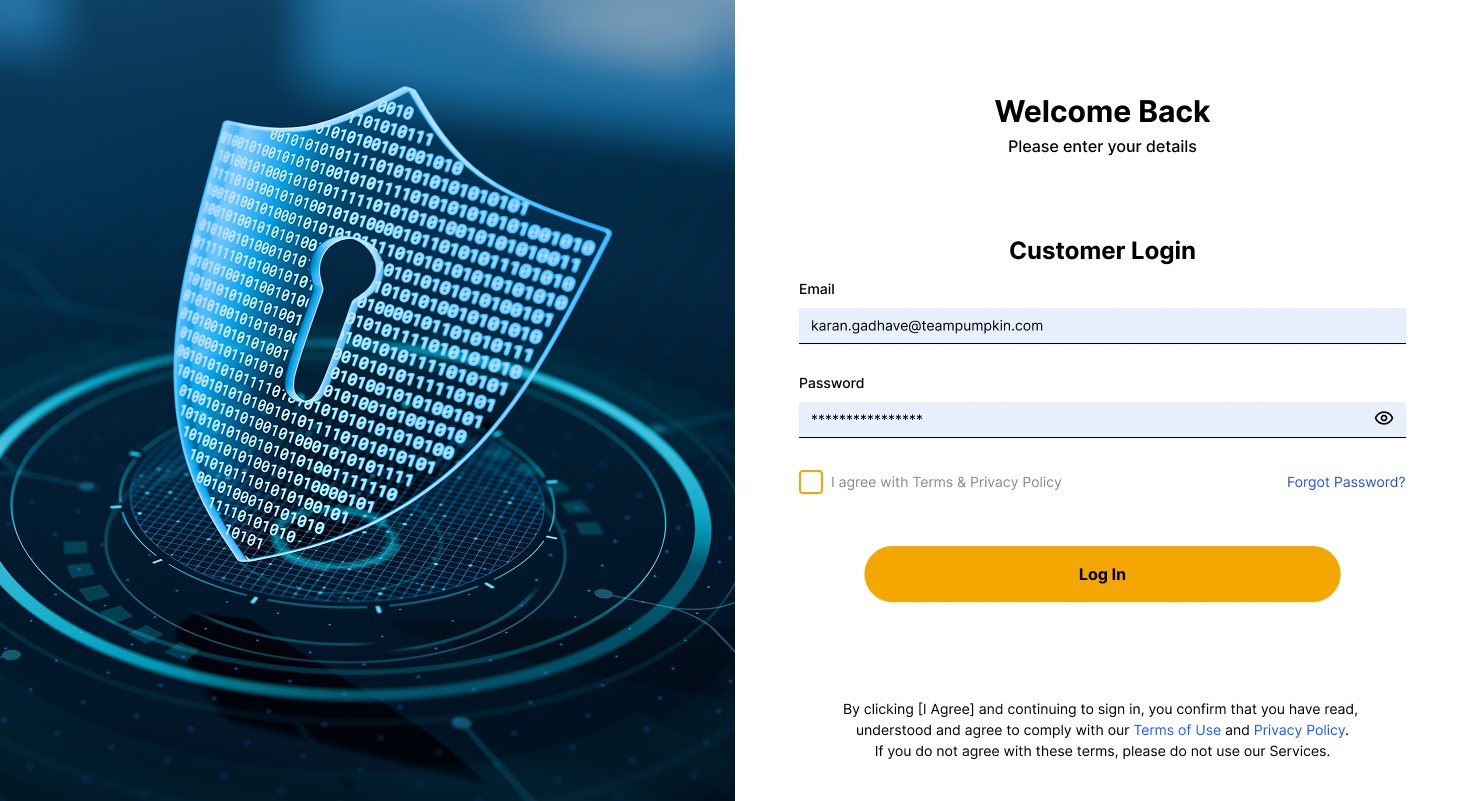
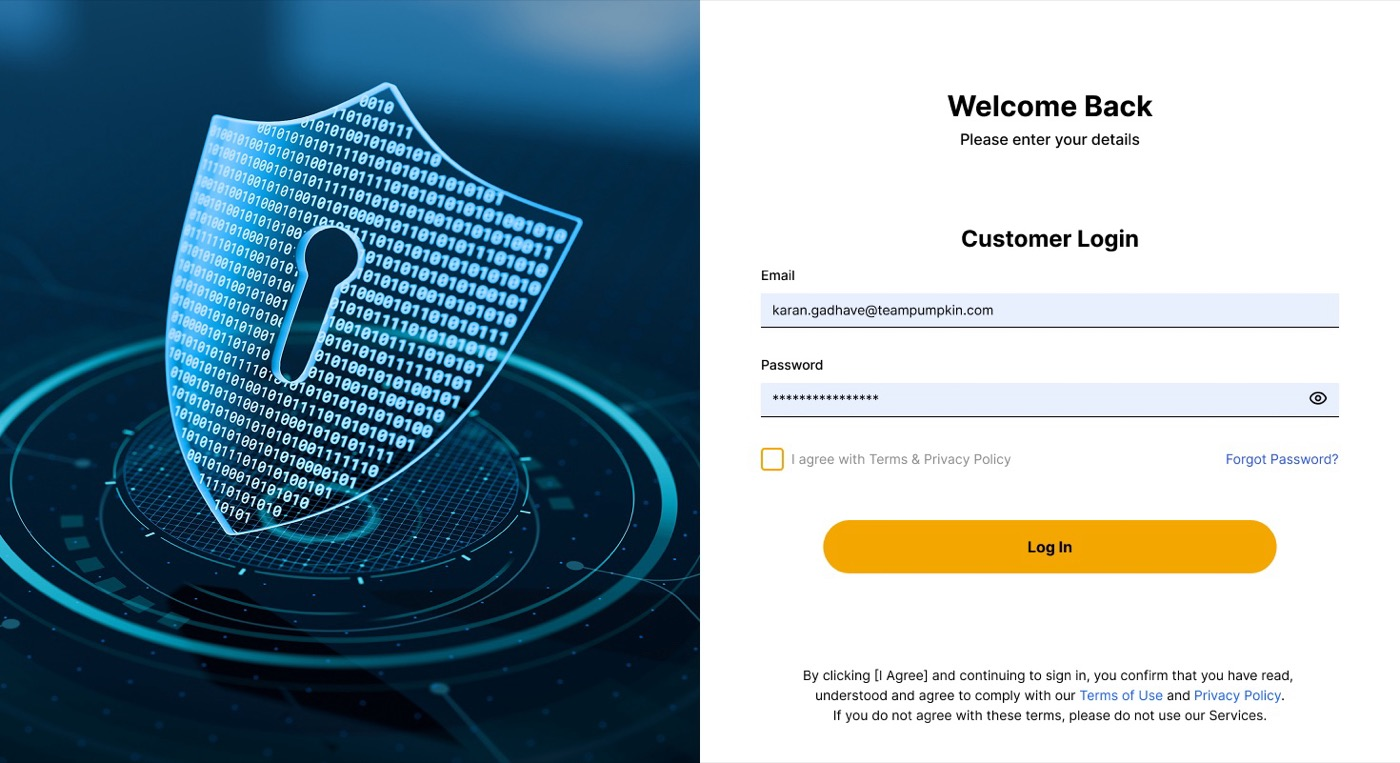
Case studies: lazy load the imagery, shrink the heavy screenshots
Every case study image loaded on arrival. Only the BeforeAfter frames
were lazy, so a page like Liffo fetched all 34 handset screens, the
collage tiles and the walkthrough stills before a reader had scrolled
past the hero. All eight image sites now load lazily and decode async;
the 2 Hour Learning page drops from nine images on arrival to one.

The heavy screenshots were stored far larger than they are ever shown.
The four full-page captures ran 1600px wide at up to 10,000 tall, 6.1MB
between them, and render at roughly 990px on desktop and 333 on a phone.
Capped at 1200 for the tall captures and 1400 elsewhere, re-encoded at
quality 76.

Image payload is down from 14MB to 11MB, and the four worst offenders
from 6.1MB to 3.2MB. The PNGs and the hero background are untouched:
sips re-encodes both worse than the originals, so those were restored.

The 11MB walkthrough video was already fetched only on approach.

Changed region(s): [[0.1536, 0.6029, 0.1843, 0.633]]

diff --git a/client/src/components/case-study/template.tsx b/client/src/components/case-study/template.tsx
@@ -96,7 +96,7 @@ export const SectionHead = ({
 /* ── device frames ─────────────────────────────────────────── */
 export const Phone = ({ src, alt = "", small = false, style }: { src: string; alt?: string; small?: boolean; style?: React.CSSProperties }) => (
   <div className={`pf-phone${small ? " sm" : ""}`} style={style}>
-    <img src={src} alt={alt} />
+    <img src={src} alt={alt} loading="lazy" decoding="async" />
     <i className="island" />
     <b className="btn action" /><b className="btn volup" /><b className="btn voldn" /><b className="btn power" />
   </div>
@@ -105,7 +105,7 @@ export const Phone = ({ src, alt = "", small = false, style }: { src: string; al
 export const Browser = ({ src, alt = "", url, imgId }: { src: string; alt?: string; url: string; imgId?: string }) => (
   <div className="pf-browser">
     <div className="bar"><i /><i /><i /><span className="url">{url}</span></div>
-    <img src={src} alt={alt} id={imgId} />
+    <img src={src} alt={alt} id={imgId} loading="lazy" decoding="async" />
   </div>
 );
 
@@ -157,7 +157,7 @@ export const Collage = ({
 }: { tiles: Array<{ src: string; size?: "sm" | "md" | "lg" }>; caption: string; count?: string }) => (
   <div className="pf-collage" data-reveal>
     <div className="pf-collage-track">
-      {tiles.map((t, i) => <div className={`pf-tile ${t.size || "md"}`} key={i}><img src={t.src} alt="" /></div>)}
+      {tiles.map((t, i) => <div className={`pf-tile ${t.size || "md"}`} key={i}><img src={t.src} alt="" loading="lazy" decoding="async" /></div>)}
     </div>
     <div className="pf-wrap pf-cap" style={{ paddingTop: 22 }}>
       <p>{caption}</p>{count && <p><b>{count}</b></p>}
@@ -207,12 +207,12 @@ export const StickyWalkthrough = ({ steps, variant = "mobile" }: { steps: Step[]
           {variant === "desktop" ? (
             <div className="pf-browser" style={{ width: "100%" }}>
               <div className="bar"><i /><i /><i /><span className="url">{cur.url}</span></div>
-              <img src={cur.img} alt="" style={{ opacity: fading ? 0 : 1 }} />
+              <img src={cur.img} alt="" loading="lazy" decoding="async" style={{ opacity: fading ? 0 : 1 }} />
             </div>
           ) : (
             <>
               <div className="pf-phone">
-                <img src={cur.img} alt="" style={{ opacity: fading ? 0 : 1 }} />
+                <img src={cur.img} alt="" loading="lazy" decoding="async" style={{ opacity: fading ? 0 : 1 }} />
                 <i className="island" />
                 <b className="btn action" /><b className="btn volup" /><b className="btn voldn" /><b className="btn power" />
               </div>
@@ -342,7 +342,7 @@ export const MoreProjects = ({ cards }: { cards: ProjectCard[] }) => (
       {cards.map((c, i) => (
         <Link href={c.href} key={c.href}
           className="pf-pcard" data-reveal style={{ ["--d" as any]: `${i * 0.08}s` }}>
-            <div className="im"><img src={c.img} alt={c.title} /></div>
+            <div className="im"><img src={c.img} alt={c.title} loading="lazy" decoding="async" /></div>
             <div className="meta">
               <div><p className="t">{c.title}</p><p className="s">{c.sub}</p></div>
               {c.badge && <p className="badge2">{c.badge}</p>}
